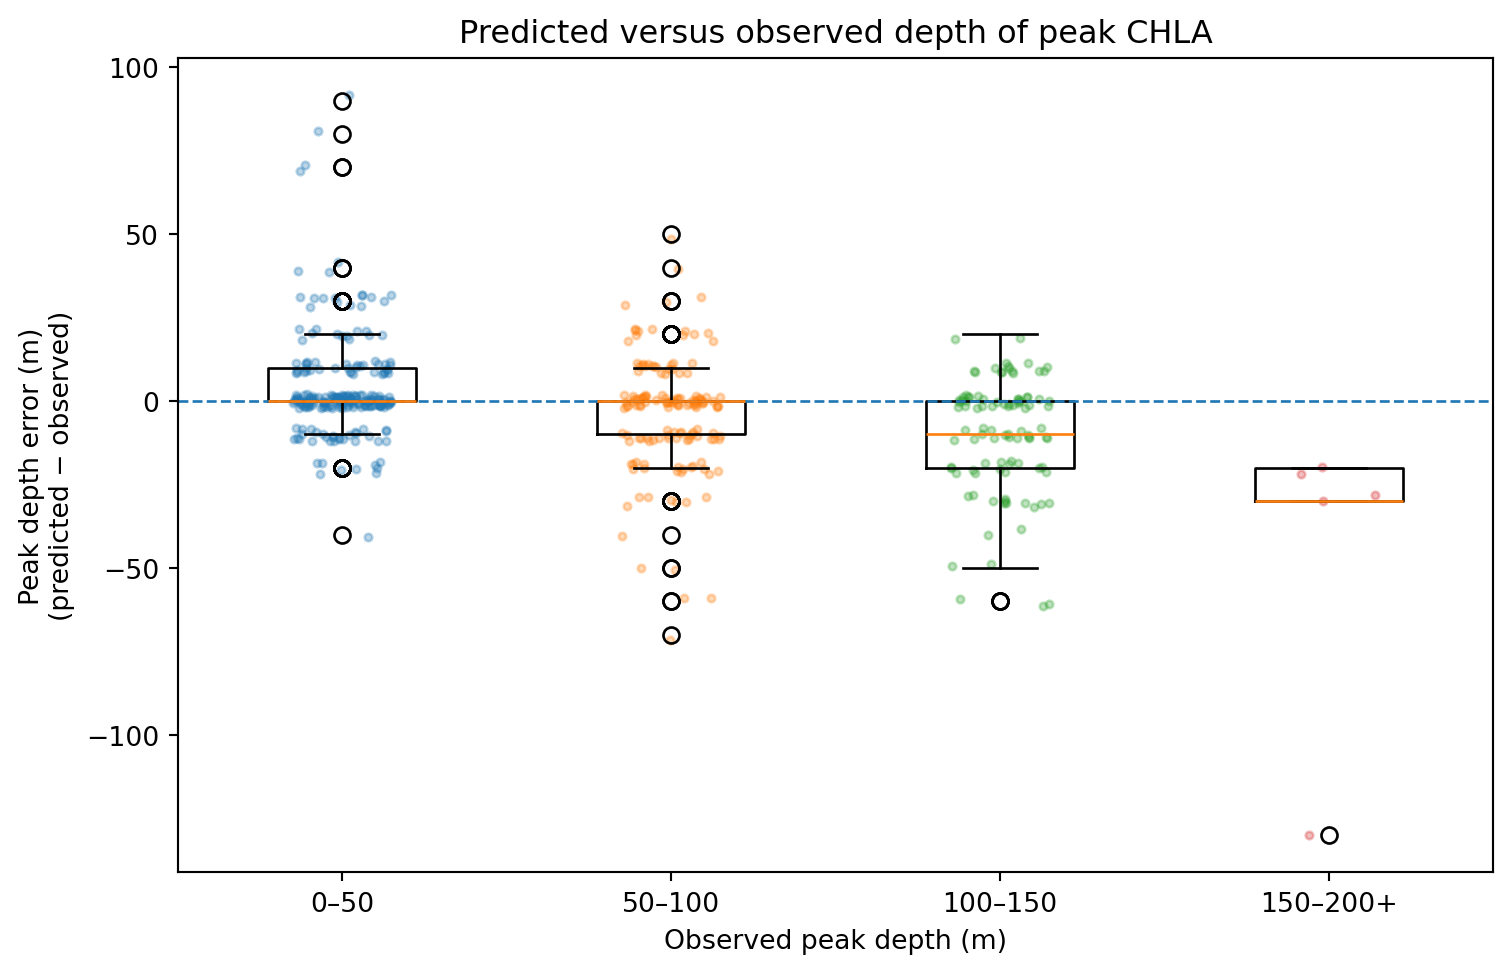
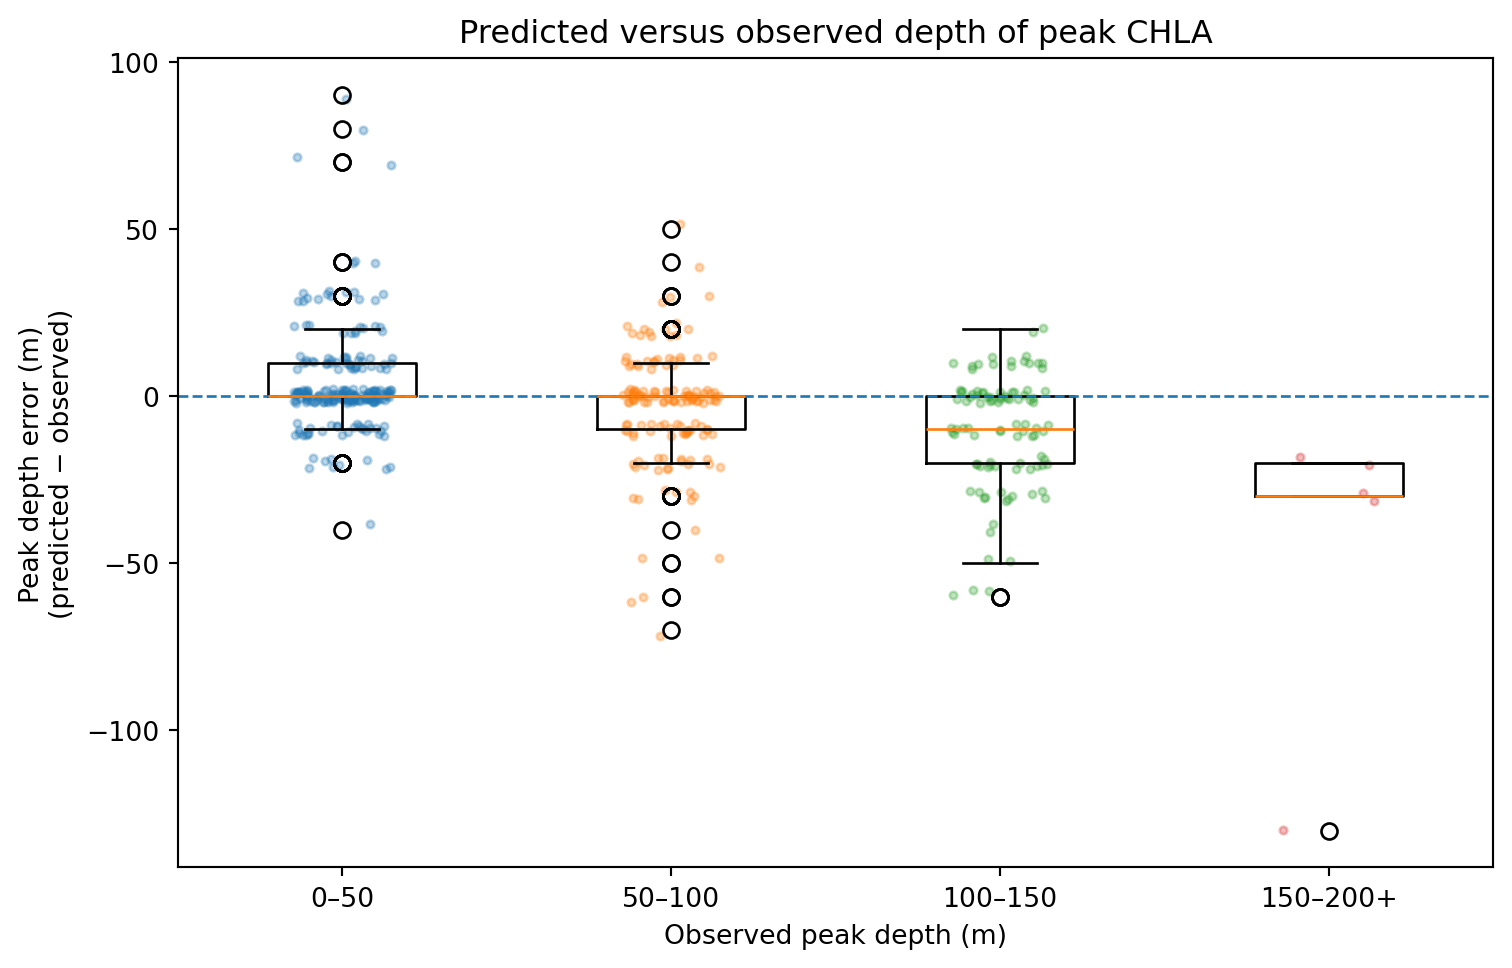
try to rescale images

diff --git a/docs/text_and_talks/chla_depth_talk_2.html b/docs/text_and_talks/chla_depth_talk_2.html
@@ -271,7 +271,7 @@ Eli Holmes
 <section id="depth-profiles-estimated-from-pace-rrs" class="title-slide slide level1 center">
 <h1>Depth profiles estimated from PACE Rrs</h1>
 <p>In this talk, I will introduce you to an experimental product of CHLA(z), depth profiles, developed using PACE remote-sensing reflectance (Rrs) data. You can access the cloud-optimized dataset as follows. zarr version 3+ required. Use <code>zarr.__version__</code> to see what you have.</p>
-<div id="b6dc5cf5" class="cell" data-execution_count="2">
+<div id="91b11d8e" class="cell" data-execution_count="2">
 <div class="sourceCode cell-code" id="cb1"><pre class="sourceCode numberSource python number-lines code-with-copy"><code class="sourceCode python"><span id="cb1-1"><a href=""></a><span class="im">import</span> xarray <span class="im">as</span> xr</span>
 <span id="cb1-2"><a href=""></a>zarr_path <span class="op">=</span> <span class="st">"gcs://nmfs_odp_nwfsc/CB/fish-pace-datasets/chla-z/zarr"</span></span>
 <span id="cb1-3"><a href=""></a>ds <span class="op">=</span> xr.open_zarr(zarr_path, consolidated<span class="op">=</span><span class="va">False</span>, storage_options<span class="op">=</span>{<span class="st">"token"</span>: <span class="st">"anon"</span>})</span></code><button title="Copy to Clipboard" class="code-copy-button"><i class="bi"></i></button></pre></div>
@@ -281,7 +281,7 @@ Eli Holmes
 <section id="example" class="title-slide slide level1 center">
 <h1>Example</h1>
 <p>Depth of peak CHLA on March 5, 2024. Red box is where we will make a time series.</p>
-<div id="ecfede1b" class="cell" data-execution_count="3">
+<div id="bf1796d0" class="cell" data-execution_count="3">
 <div class="cell-output cell-output-display">
 <div class="quarto-figure quarto-figure-center">
 <figure>
@@ -294,7 +294,7 @@ Eli Holmes
 
 <section id="seasonal-patterns-of-chla-peak-depth" class="title-slide slide level1 center">
 <h1>Seasonal patterns of CHLA peak depth</h1>
-<div id="f82a68fa" class="cell" data-execution_count="4">
+<div id="2aca83c3" class="cell" data-execution_count="4">
 <div class="cell-output cell-output-display">
 <div class="quarto-figure quarto-figure-center">
 <figure>
@@ -319,7 +319,7 @@ Eli Holmes
 <section id="pace-mission-hyperspectral-ocean-color" class="title-slide slide level1 center">
 <h1>PACE Mission: Hyperspectral Ocean Color</h1>
 <p>PACE provides hyperspectral water-leaving radiance reflectances, Rrs(λ), across the visible spectrum.</p>
-<div id="3c7aceae" class="cell" data-fig-height="4" data-fig-width="8" data-execution_count="5">
+<div id="18f80dac" class="cell" data-fig-height="4" data-fig-width="8" data-execution_count="5">
 <div class="cell-output cell-output-display">
 <div class="quarto-figure quarto-figure-center">
 <figure>
@@ -370,7 +370,7 @@ Eli Holmes
 <li>Global</li>
 <li><strong>Deep Water</strong> (&gt;1000m) not coastal</li>
 </ul>
-<div id="59c8f73f" class="cell" data-execution_count="6">
+<div id="2cb78188" class="cell" data-execution_count="6">
 <div class="cell-output cell-output-display">
 <div class="quarto-figure quarto-figure-center">
 <figure>
@@ -383,7 +383,7 @@ Eli Holmes
 
 <section id="a-chlorophyll-profile-from-an-bgc-argo-buoy" class="title-slide slide level1 center">
 <h1>A Chlorophyll Profile from an BGC-Argo Buoy</h1>
-<div id="49c6daf0" class="cell" data-execution_count="7">
+<div id="0109e845" class="cell" data-execution_count="7">
 <div class="cell-output cell-output-display">
 <div class="quarto-figure quarto-figure-center">
 <figure>
@@ -403,7 +403,7 @@ Eli Holmes
 </li>
 <li>Key for shallow structure, seasonal cycles, and diel variability</li>
 </ul>
-<div id="7ab18069" class="cell" data-execution_count="8">
+<div id="63b667e0" class="cell" data-execution_count="8">
 <div class="cell-output cell-output-display">
 <div class="quarto-figure quarto-figure-center">
 <figure>
@@ -506,28 +506,13 @@ Eli Holmes
 
 <section id="results" class="title-slide slide level1 center">
 <h1>Results</h1>
-<div id="7e1454d2" class="cell" data-message="false" data-execution_count="9">
-<div class="sourceCode cell-code" id="cb2"><pre class="sourceCode numberSource python number-lines code-with-copy"><code class="sourceCode python"><span id="cb2-1"><a href=""></a><span class="co">## Load model</span></span>
-<span id="cb2-2"><a href=""></a>bundle <span class="op">=</span> mu.load_ml_bundle(<span class="st">"../../models/brt_chla_profiles_bundle.zip"</span>)</span>
-<span id="cb2-3"><a href=""></a>brt_models <span class="op">=</span> bundle.model</span>
-<span id="cb2-4"><a href=""></a>meta <span class="op">=</span> bundle.meta</span>
-<span id="cb2-5"><a href=""></a>rrs_cols <span class="op">=</span> meta[<span class="st">"rrs_cols"</span>]</span>
-<span id="cb2-6"><a href=""></a>chl_cols <span class="op">=</span> meta[<span class="st">"y_col"</span>]</span>
-<span id="cb2-7"><a href=""></a>extra <span class="op">=</span> meta[<span class="st">"extra_cols"</span>]</span>
-<span id="cb2-8"><a href=""></a>dataset <span class="op">=</span> bundle.data[<span class="st">"dataset"</span>]</span>
-<span id="cb2-9"><a href=""></a>train_idx <span class="op">=</span> bundle.data[<span class="st">"train_idx"</span>]</span>
-<span id="cb2-10"><a href=""></a>test_idx <span class="op">=</span> bundle.data[<span class="st">"test_idx"</span>]</span>
-<span id="cb2-11"><a href=""></a>X_train <span class="op">=</span> bundle.data[<span class="st">"X_train"</span>]</span>
-<span id="cb2-12"><a href=""></a>X_test <span class="op">=</span> bundle.data[<span class="st">"X_test"</span>]</span>
-<span id="cb2-13"><a href=""></a>y_train_all <span class="op">=</span> bundle.data[<span class="st">"y_train"</span>]</span>
-<span id="cb2-14"><a href=""></a>y_test_all <span class="op">=</span> bundle.data[<span class="st">"y_test"</span>]</span></code><button title="Copy to Clipboard" class="code-copy-button"><i class="bi"></i></button></pre></div>
-</div>
+
 </section>
 
 <section id="performance" class="title-slide slide level1 center">
 <h1>Performance</h1>
 <p>Overall we see a close match between our predictions and our test data for CHLA in the upper 10m — for non-coastal data.</p>
-<div id="8bf7e8b1" class="cell" data-execution_count="13">
+<div id="ac6af8fe" class="cell" data-execution_count="13">
 <div class="cell-output cell-output-display">
 <div class="quarto-figure quarto-figure-center">
 <figure>
@@ -542,7 +527,7 @@ Eli Holmes
 <section id="prediction-of-chla-0-to-10m" class="title-slide slide level1 center">
 <h1>Prediction of CHLA 0 to 10m</h1>
 <p>Using PACE data for hyperspectral Rrs, we can make a prediction of surface CHLA. Let’s compare to PACE’s surface CHLA product as a first pass check, but note that these are different products trained on different in-situ data. Note surface CHLA is not our goal.</p>
-<div id="e5105cd1" class="cell" data-execution_count="17">
+<div id="b6ec16d4" class="cell" data-execution_count="17">
 <div class="cell-output cell-output-display">
 <div class="quarto-figure quarto-figure-center">
 <figure>
@@ -557,7 +542,7 @@ Eli Holmes
 <h2>Scatter plot</h2>
 <p>PACE chlor_a to BRT with type = 1 (ooi) and solar_hour = 0 (midnight)</p>
 <p>Notice that at high PACE <code>chlor_a</code>, the BRT model predicts lower <code>CHLA_0_10</code>. We might be able to correct this by using the whole CHLA depth profile (next section).</p>
-<div id="c5b4ba12" class="cell" data-execution_count="18">
+<div id="a64ba3fd" class="cell" data-execution_count="18">
 <div class="cell-output cell-output-display">
 <div class="quarto-figure quarto-figure-center">
 <figure>
@@ -580,11 +565,11 @@ Eli Holmes
 </section>
 <section id="chla-profiles-observed-vs-brt" class="slide level2 nostretch">
 <h2>CHLA Profiles: Observed vs BRT</h2>
-<div id="636ac9e8" class="cell" data-execution_count="19">
+<div id="2b1110ea" class="cell" data-fig-height="4.5" data-fig-width="8" data-execution_count="19">
 <div class="cell-output cell-output-display">
 <div class="quarto-figure quarto-figure-center">
 <figure>
-<p><img data-src="chla_depth_talk_2_files/figure-revealjs/cell-20-output-1.png" class="quarto-figure quarto-figure-center" width="1439" height="763"></p>
+<p><img data-src="chla_depth_talk_2_files/figure-revealjs/cell-20-output-1.png" class="quarto-figure quarto-figure-center" width="1077" height="571"></p>
 </figure>
 </div>
 </div>
@@ -592,7 +577,7 @@ Eli Holmes
 </section></section>
 <section id="when-surface-chla-is-high" class="title-slide slide level1 nostretch center">
 <h1>When surface CHLA is high?</h1>
-<div id="2ebdf2c6" class="cell" data-execution_count="20">
+<div id="78403f8a" class="cell" data-execution_count="20">
 <div class="cell-output cell-output-display">
 <div class="quarto-figure quarto-figure-center">
 <figure>
@@ -606,7 +591,7 @@ Eli Holmes
 <section id="coastal-waters" class="title-slide slide level1 nostretch center">
 <h1>Coastal waters?</h1>
 <p>Not enough data yet. No correction was done for bathymetry (scattering off bottom), so that will need to be fixed for shallow water.</p>
-<div id="6e17d510" class="cell" data-execution_count="21">
+<div id="4e0cd2d0" class="cell" data-execution_count="21">
 <div class="cell-output cell-output-display">
 <div class="quarto-figure quarto-figure-center">
 <figure>
@@ -629,7 +614,7 @@ Eli Holmes
 
 <section id="absolute-errors-for-depth-bins" class="title-slide slide level1 center">
 <h1>Absolute Errors for Depth Bins</h1>
-<div id="d69319ce" class="cell" data-execution_count="23">
+<div id="1b55365c" class="cell" data-execution_count="23">
 <div class="cell-output cell-output-display">
 <div class="quarto-figure quarto-figure-center">
 <figure>
@@ -642,7 +627,7 @@ Eli Holmes
 
 <section id="proportional-errors-for-depth-bins" class="title-slide slide level1 center">
 <h1>Proportional Errors for Depth Bins</h1>
-<div id="1c9c0ec9" class="cell" data-execution_count="24">
+<div id="fb532976" class="cell" data-execution_count="24">
 <div class="cell-output cell-output-display">
 <div class="quarto-figure quarto-figure-center">
 <figure>
@@ -655,7 +640,7 @@ Eli Holmes
 
 <section id="peak-depth-and-integrated-chla-metrics-code" class="title-slide slide level1 center">
 <h1>Peak Depth and Integrated CHLA Metrics (Code)</h1>
-<div id="d5e85170" class="cell" data-execution_count="25">
+<div id="40360a6c" class="cell" data-execution_count="25">
 <div class="cell-output cell-output-display" data-execution_count="25">
 <div>
 <style scoped="">
@@ -758,11 +743,11 @@ Eli Holmes
 
 <section id="peak-depth-and-height" class="title-slide slide level1 center">
 <h1>Peak Depth and Height</h1>
-<div id="2022e829" class="cell" data-execution_count="26">
+<div id="b0f3a7f4" class="cell" data-execution_count="26">
 <div class="cell-output cell-output-display">
 <div class="quarto-figure quarto-figure-center">
 <figure>
-<p><img data-src="chla_depth_talk_2_files/figure-revealjs/cell-27-output-1.png" class="quarto-figure quarto-figure-center" width="756" height="487"></p>
+<p><img data-src="chla_depth_talk_2_files/figure-revealjs/cell-27-output-1.png" class="quarto-figure quarto-figure-center" width="756" height="484"></p>
 </figure>
 </div>
 </div>
@@ -771,7 +756,7 @@ Eli Holmes
 
 <section id="integrated-chla-0200-m" class="title-slide slide level1 center">
 <h1>Integrated CHLA (0–200 m)</h1>
-<div id="40c10e12" class="cell" data-execution_count="27">
+<div id="1bc0dde3" class="cell" data-execution_count="27">
 <div class="cell-output cell-output-display">
 <div class="quarto-figure quarto-figure-center">
 <figure>
